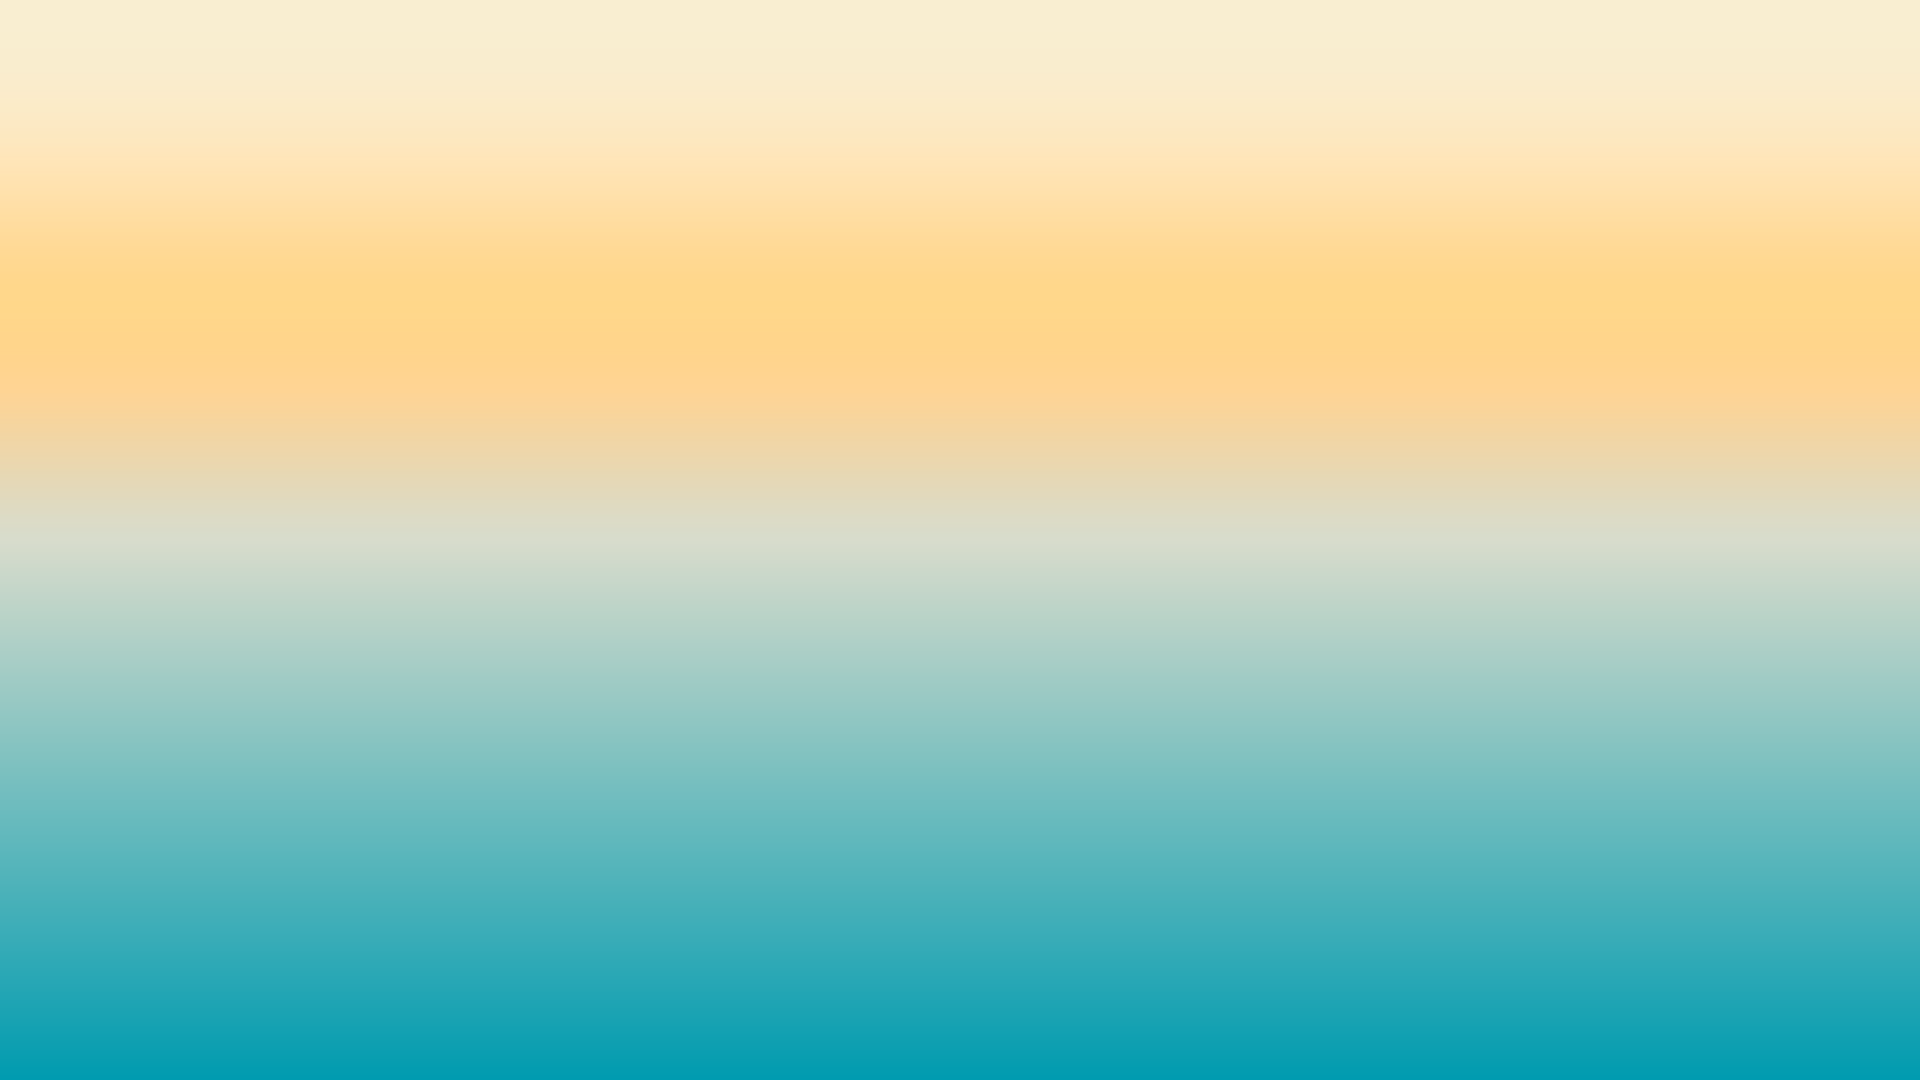
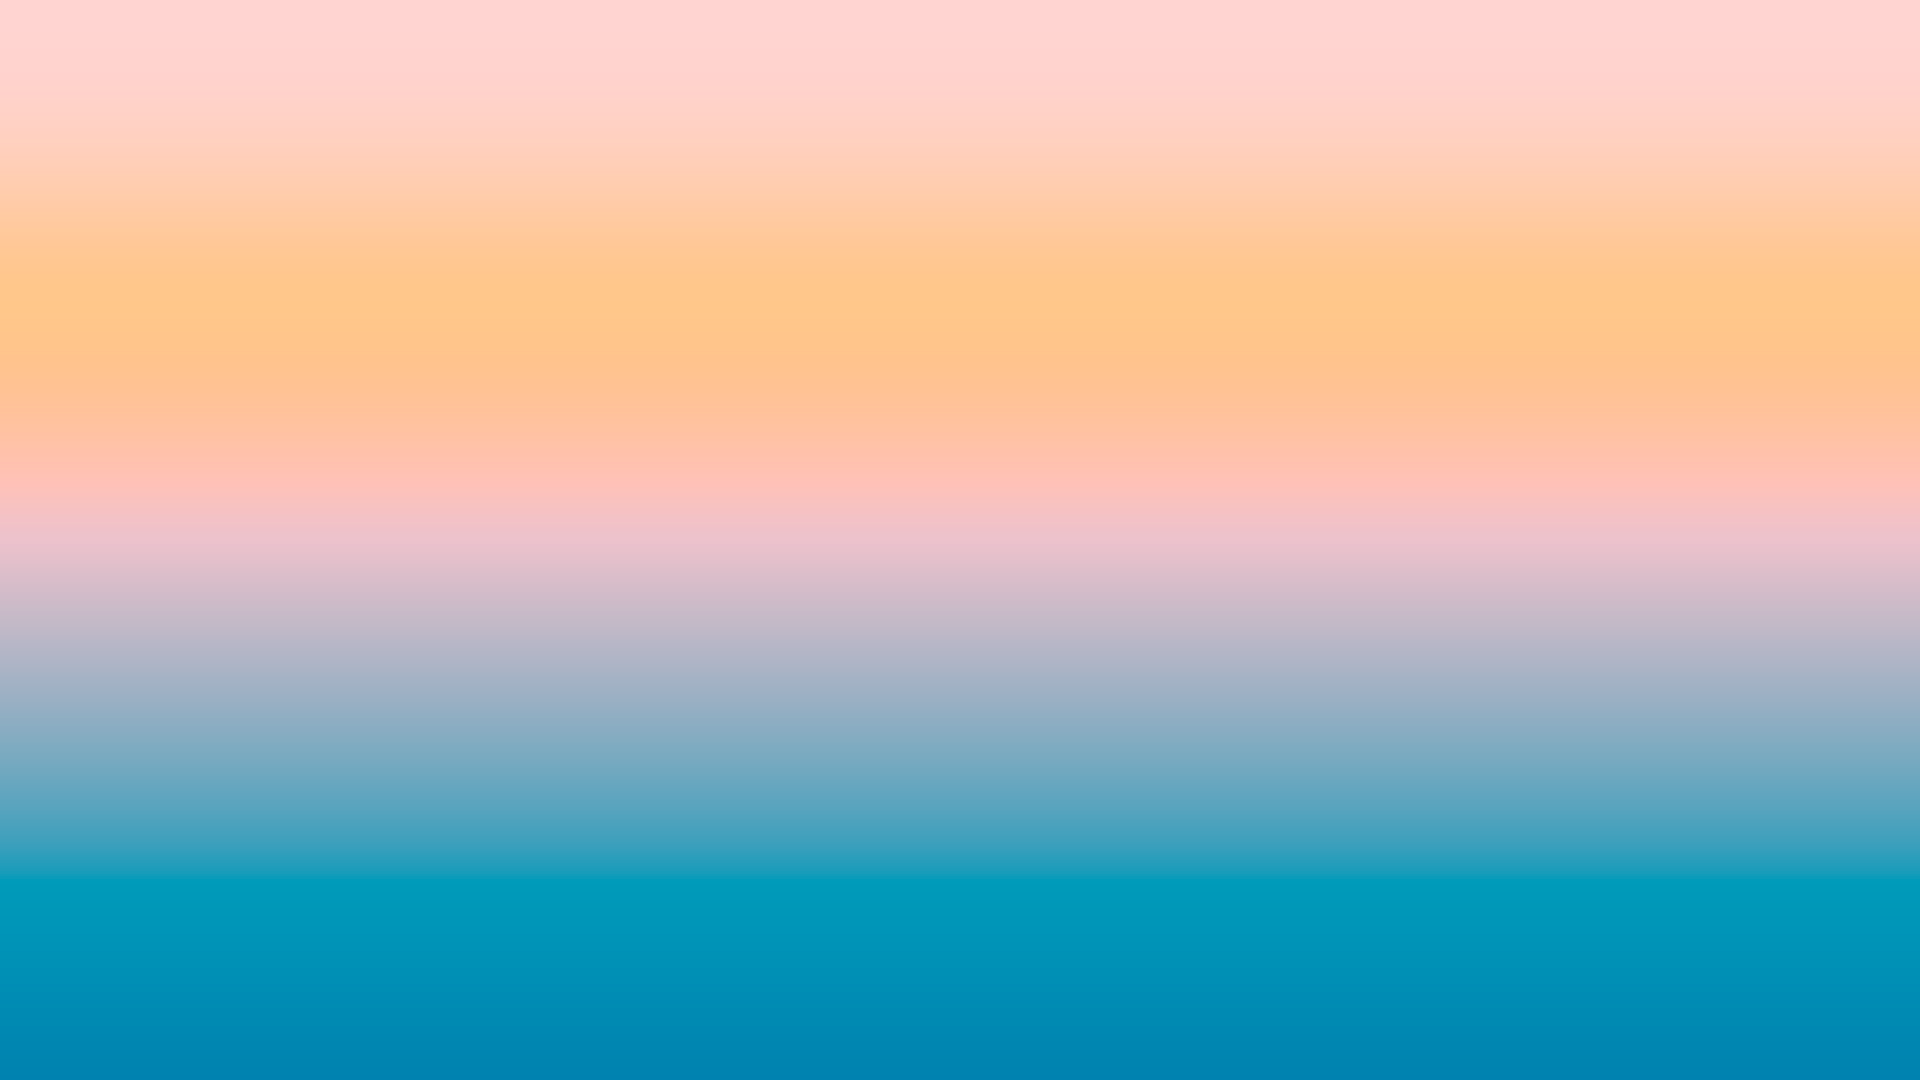
feat: new cloud and bg imgs

diff --git a/script.js b/script.js
@@ -8,95 +8,63 @@ function init() {
   canvas = document.getElementById("canvas");
   keyboard = new Keyboard();
   world = new World(canvas, keyboard);
-  world.paused = true; 
-}
-
-function wireMenuOverlay() {
-  const overlay = document.getElementById("overlay-1");
-  const btnStart = document.getElementById("btn-start");
-  const slider = document.getElementById("volume-slider");
-  const lbl = document.getElementById("volume-value");
-
   
-  slider.value = Math.round(gameVolume * 100);
-  lbl.textContent = `${slider.value}%`;
-
-  btnStart.addEventListener("click", () => {
-    overlay.classList.add("hidden");
-    startGame();
-  });
-
-  slider.addEventListener("input", () => {
-    const pct = Number(slider.value);
-    lbl.textContent = `${pct}%`;
-    gameVolume = pct / 100;
-    localStorage.setItem("gameVolume", String(gameVolume));
-    
-  });
+  world.paused = true;
 }
 
-function startGame() {
-  world = new World(canvas, keyboard);
+document.addEventListener('DOMContentLoaded', () => {
+  const ovStart   = document.getElementById('overlay-1');
+  const ovSettings= document.getElementById('overlay-settings');
+  const btnStart  = document.getElementById('btn-start');
+  const btnFab    = document.getElementById('btn-settings-fab');
+  const btnClose  = document.getElementById('btn-close-settings');
+  const btnResume = document.getElementById('btn-resume');
+  const resumeRow = document.getElementById('resume-row');
+  const slider = document.getElementById('volume-slider');
+  const lbl    = document.getElementById('volume-value');
+  if (slider && lbl) {
+    const setVol = (pct) => {
+      const p = Math.min(100, Math.max(0, Number(pct)||0));
+      slider.value = p;
+      lbl.textContent = `${p}%`;
+      gameVolume = p/100;
+      localStorage.setItem("gameVolume", String(gameVolume));
+    };
+    setVol(Math.round(gameVolume * 100));
+    slider.addEventListener('input', e => setVol(e.target.value));
+  }
 
-}
+  const isInStart = () => ovStart && !ovStart.classList.contains('hidden');
 
-function wireSettingsOverlay(){
-  const btnSettings   = document.getElementById('btn-settings');
-  const overlaySett   = document.getElementById('overlay-settings');
-  const btnBackStart  = document.getElementById('btn-back-start');
-  const btnResume     = document.getElementById('btn-resume');
+  function startGame() {
+    ovStart.classList.add('hidden');
+    if (world) world.paused = false;
+  }
 
-  btnSettings.addEventListener('click', () => {
+  function openSettings() {
    
-    updateSettingsOverlayUI();
-
+    if (resumeRow) resumeRow.classList.toggle('hidden', isInStart());
+    ovSettings.classList.remove('hidden');
     
-    if (!isInStartScreen()) pauseGame();
+    if (world && !isInStart()) world.paused = true;
+  }
 
-    overlaySett.classList.remove('hidden');
+  function closeSettings() {
+    ovSettings.classList.add('hidden');
+    
+    if (world && !isInStart()) world.paused = false;
+  }
+
+  btnStart?.addEventListener('click', startGame);
+  btnFab?.addEventListener('click', openSettings);
+  btnClose?.addEventListener('click', closeSettings);
+  btnResume?.addEventListener('click', closeSettings);
+  window.addEventListener('keydown', (e) => {
+    if (e.key === 'Escape' && !ovSettings.classList.contains('hidden')) {
+      closeSettings();
+    }
   });
-
-  if (btnResume){
-    btnResume.addEventListener('click', () => {
-      overlaySett.classList.add('hidden');
-      resumeGame();
-    });
-  }
-
-  if (btnBackStart){
-    btnBackStart.addEventListener('click', () => {
-     
-      location.reload();
-    });
-  }
-}
-
-function isInStartScreen(){
-  const ov = document.getElementById('overlay-1');
-  
-  return !!(ov && !ov.classList.contains('hidden'));
-}
-
-function updateSettingsOverlayUI(){
-  const inMenu = isInStartScreen();
-  
-  const btnResume    = document.getElementById('btn-resume');
-  const btnBackStart = document.getElementById('btn-back-start');
-
-  if (btnResume)    btnResume.classList.toggle('hidden', inMenu);
-  if (btnBackStart) btnBackStart.classList.toggle('hidden', inMenu);
-}
-
-
-document.addEventListener('DOMContentLoaded', wireSettingsOverlay);
-
-function pauseGame(){
-  if (world) world.paused = true;    
-}
-
-function resumeGame(){
-  if (world) world.paused = false;
-}
+});
 
 window.addEventListener("keydown", (event) => {
   if (event.key === "ArrowLeft" || event.key === "a" || event.key === "A") keyboard.LEFT = true;
@@ -105,70 +73,10 @@ window.addEventListener("keydown", (event) => {
   if (event.key === "ArrowDown" || event.key === "s" || event.key === "S") keyboard.DOWN = true;
   if (event.key === " ") keyboard.SPACE = true;
 });
-
 window.addEventListener("keyup", (event) => {
   if (event.key === "ArrowLeft" || event.key === "a" || event.key === "A") keyboard.LEFT = false;
   if (event.key === "ArrowUp" || event.key === "w" || event.key === "W") keyboard.UP = false;
   if (event.key === "ArrowRight" || event.key === "d" || event.key === "D") keyboard.RIGHT = false;
   if (event.key === "ArrowDown" || event.key === "s" || event.key === "S") keyboard.DOWN = false;
   if (event.key === " ") keyboard.SPACE = false;
-});
-
-function init() {
-  canvas = document.getElementById("canvas");
-  keyboard = new Keyboard();
-  world = new World(canvas, keyboard);
-  world.paused = true; // Spiel ist pausiert, bis man auf Start klickt
-}
-
-// Wiring (einmalig am Ende von script.js)
-document.addEventListener('DOMContentLoaded', () => {
-  const startOv    = document.getElementById('overlay-1');
-  const settingsOv = document.getElementById('overlay-settings');
-  const fab        = document.getElementById('btn-settings-fab');
-  const btnStart   = document.getElementById('btn-start');
-  const btnBack    = document.getElementById('btn-back-start');
-  const btnResume  = document.getElementById('btn-resume');
-  const btnClose   = document.getElementById('btn-close-settings');
-  const resumeRow  = document.getElementById('resume-row');
-
-  function openSettings() {
-    const inStart = !startOv.classList.contains('hidden');
-    if (resumeRow) resumeRow.classList.toggle('hidden', inStart);
-    settingsOv.classList.remove('hidden');
-    if (window.world && !inStart) world.paused = true;
-  }
-  function closeSettings() {
-    settingsOv.classList.add('hidden');
-    if (window.world && startOv.classList.contains('hidden')) world.paused = false;
-  }
-  function backToStart() {
-    settingsOv.classList.add('hidden');
-    startOv.classList.remove('hidden');
-    if (window.world) world.paused = true;
-  }
-  function startGame() {
-    startOv.classList.add('hidden');
-    if (window.world) world.paused = false;
-  }
-
-  fab?.addEventListener('click', openSettings);
-  btnClose?.addEventListener('click', closeSettings);
-  btnResume?.addEventListener('click', closeSettings);
-  btnBack?.addEventListener('click', backToStart);
-  btnStart?.addEventListener('click', startGame);
-
-  // Volume wiring
-  const vol = document.getElementById('volume-slider');
-  const volVal = document.getElementById('volume-value');
-  if (vol && volVal) {
-    const setVolume = v => {
-      const p = Math.min(100, Math.max(0, Number(v) || 0));
-      volVal.textContent = `${p}%`;
-      window.gameVolume = p / 100;
-    };
-    vol.value = vol.value || 100;
-    setVolume(vol.value);
-    vol.addEventListener('input', e => setVolume(e.target.value));
-  }
 });
